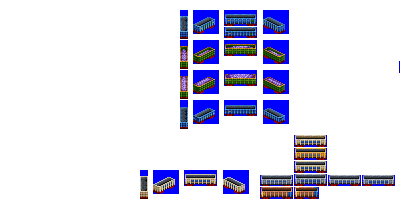
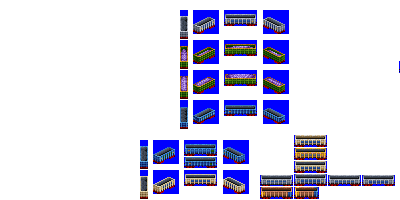
Change: WIP on aggregate dump cars

Changed region(s): [[0.33, 0.69, 0.63, 0.84], [0.45, 0.06, 0.72, 0.21]]

diff --git a/src/train.py b/src/train.py
@@ -4300,7 +4300,6 @@ class AggregateDumpCarConsistBase(DumpCarConsistBase):
             global_constants.freight_wagon_liveries["RANDOM_FROM_CONSIST_LIVERIES_COMPLEMENT_COMPANY_COLOUR"],
             global_constants.freight_wagon_liveries["RANDOM_FROM_CONSIST_LIVERIES_VARIETY"],
             global_constants.freight_wagon_liveries["RANDOM_FROM_CONSIST_LIVERIES_RUBY_BAUXITE"],
-            global_constants.freight_wagon_liveries["RANDOM_FROM_CONSIST_LIVERIES_BAUXITE_GREY_NIGHTSHADE"],
             global_constants.freight_wagon_liveries["RANDOM_FROM_CONSIST_LIVERIES_OCHRE_SAND"],
             global_constants.freight_wagon_liveries["RANDOM_FROM_CONSIST_LIVERIES_TEAL_PEWTER"],
             global_constants.freight_wagon_liveries["COMPANY_COLOUR_USE_WEATHERING"],
@@ -4310,8 +4309,8 @@ class AggregateDumpCarConsistBase(DumpCarConsistBase):
             global_constants.freight_wagon_liveries["FREIGHT_RUBY"],
             global_constants.freight_wagon_liveries["FREIGHT_BAUXITE"],
             global_constants.freight_wagon_liveries["FREIGHT_GREY"],
+            global_constants.freight_wagon_liveries["FREIGHT_SILVER"],
             global_constants.freight_wagon_liveries["FREIGHT_NIGHTSHADE"],
-            global_constants.freight_wagon_liveries["FREIGHT_GREMLIN_GREEN"],
             global_constants.freight_wagon_liveries["FREIGHT_OCHRE"],
             global_constants.freight_wagon_liveries["FREIGHT_SAND"],
             global_constants.freight_wagon_liveries["FREIGHT_TEAL"],
@@ -4372,7 +4371,6 @@ class DumpCarAggregateRandomisedConsist(
                 global_constants.freight_wagon_liveries["RANDOM_FROM_CONSIST_LIVERIES_COMPLEMENT_COMPANY_COLOUR"],
                 global_constants.freight_wagon_liveries["RANDOM_FROM_CONSIST_LIVERIES_VARIETY"],
                 global_constants.freight_wagon_liveries["RANDOM_FROM_CONSIST_LIVERIES_RUBY_BAUXITE"],
-                global_constants.freight_wagon_liveries["RANDOM_FROM_CONSIST_LIVERIES_BAUXITE_GREY_NIGHTSHADE"],
                 global_constants.freight_wagon_liveries["RANDOM_FROM_CONSIST_LIVERIES_OCHRE_SAND"],
                 global_constants.freight_wagon_liveries["RANDOM_FROM_CONSIST_LIVERIES_TEAL_PEWTER"],
                 global_constants.freight_wagon_liveries["COMPANY_COLOUR_USE_WEATHERING"],
@@ -4382,8 +4380,8 @@ class DumpCarAggregateRandomisedConsist(
                 global_constants.freight_wagon_liveries["FREIGHT_RUBY"],
                 global_constants.freight_wagon_liveries["FREIGHT_BAUXITE"],
                 global_constants.freight_wagon_liveries["FREIGHT_GREY"],
+                global_constants.freight_wagon_liveries["FREIGHT_SILVER"],
                 global_constants.freight_wagon_liveries["FREIGHT_NIGHTSHADE"],
-                global_constants.freight_wagon_liveries["FREIGHT_GREMLIN_GREEN"],
                 global_constants.freight_wagon_liveries["FREIGHT_OCHRE"],
                 global_constants.freight_wagon_liveries["FREIGHT_SAND"],
                 global_constants.freight_wagon_liveries["FREIGHT_TEAL"],

diff --git a/src/vehicles/pony/aggregate_dump_cars_type_1_pony.py b/src/vehicles/pony/aggregate_dump_cars_type_1_pony.py
@@ -10,7 +10,7 @@ def main(roster_id, **kwargs):
         base_numeric_id=34730,
         gen=1,
         subtype="A",
-        sprites_complete=True,
+        sprites_complete=False,
     )
 
     consist.add_unit(type=FreightCar, chassis="2_axle_gapped_16px")
@@ -23,7 +23,7 @@ def main(roster_id, **kwargs):
         base_numeric_id=31390,
         gen=3,
         subtype="A",
-        sprites_complete=True,
+        sprites_complete=False,
     )
 
     consist.add_unit(type=FreightCar, chassis="2_axle_gapped_16px")
@@ -34,7 +34,7 @@ def main(roster_id, **kwargs):
         base_numeric_id=32930,
         gen=3,
         subtype="B",
-        sprites_complete=True,
+        sprites_complete=False,
     )
 
     consist.add_unit(type=FreightCar, chassis="4_axle_gapped_24px")
@@ -45,7 +45,7 @@ def main(roster_id, **kwargs):
         base_numeric_id=32900,
         gen=4,
         subtype="A",
-        sprites_complete=True,
+        sprites_complete=False,
     )
 
     consist.add_unit(type=FreightCar, chassis="2_axle_gapped_16px")
@@ -56,7 +56,7 @@ def main(roster_id, **kwargs):
         base_numeric_id=32950,
         gen=4,
         subtype="B",
-        sprites_complete=True,
+        sprites_complete=False,
     )
 
     consist.add_unit(type=FreightCar, chassis="4_axle_sparse_24px")
@@ -67,7 +67,7 @@ def main(roster_id, **kwargs):
         base_numeric_id=32860,
         gen=5,
         subtype="A",
-        sprites_complete=True,
+        sprites_complete=False,
     )
 
     consist.add_unit(type=FreightCar, chassis="2_axle_gapped_greebled_16px")
@@ -78,7 +78,7 @@ def main(roster_id, **kwargs):
         base_numeric_id=32970,
         gen=5,
         subtype="B",
-        sprites_complete=True,
+        sprites_complete=False,
     )
 
     consist.add_unit(type=FreightCar, chassis="4_axle_gapped_greebled_24px")
@@ -89,7 +89,7 @@ def main(roster_id, **kwargs):
         base_numeric_id=32990,
         gen=5,
         subtype="C",
-        sprites_complete=True,
+        sprites_complete=False,
     )
 
     consist.add_unit(type=FreightCar, chassis="4_axle_gapped_greebled_32px")
